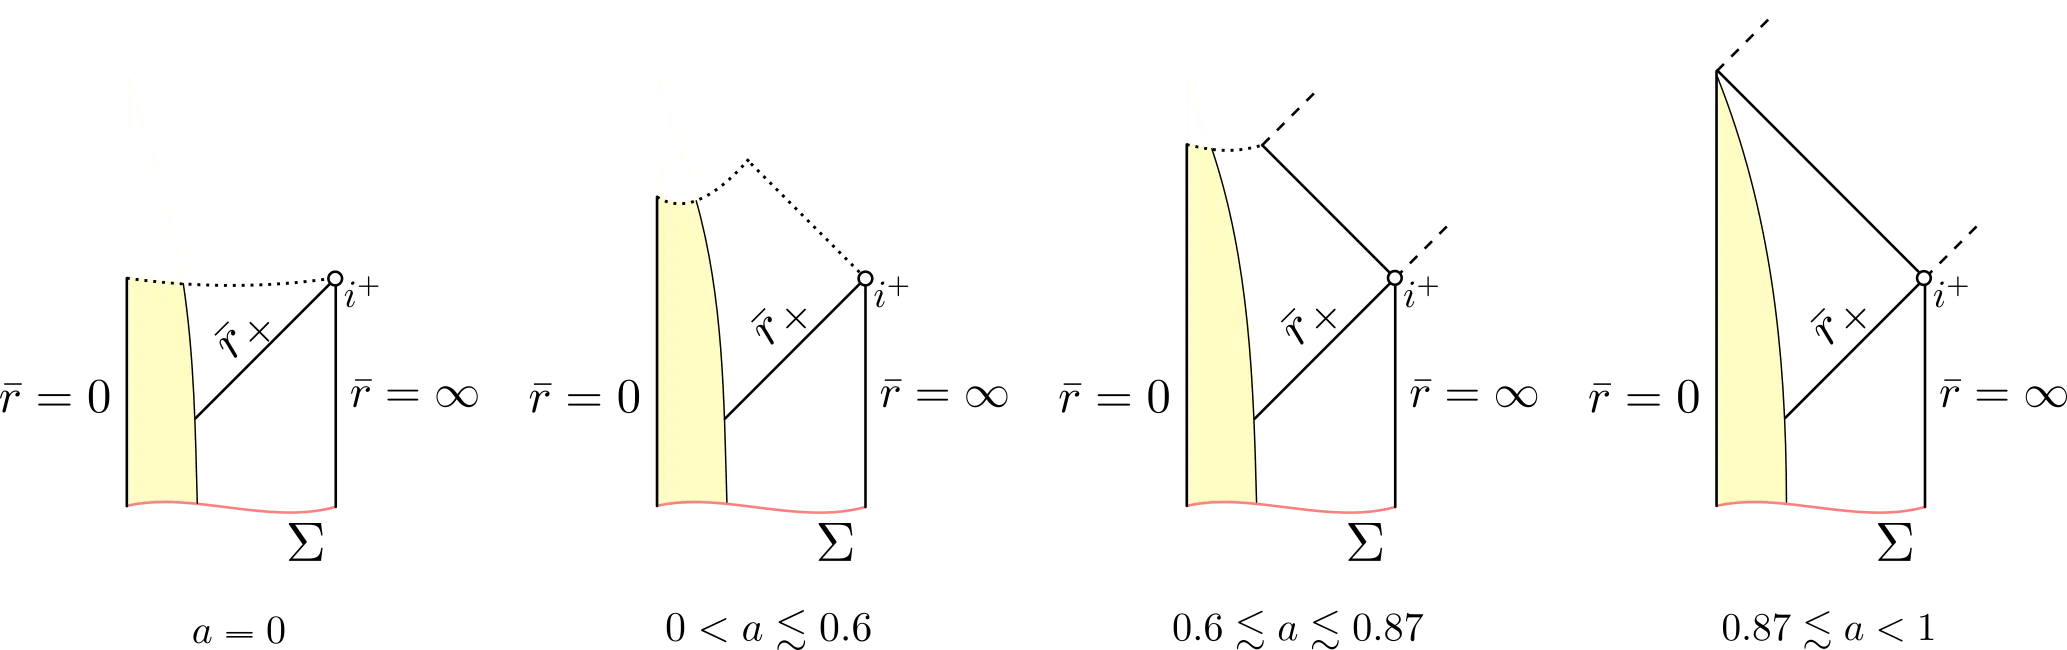
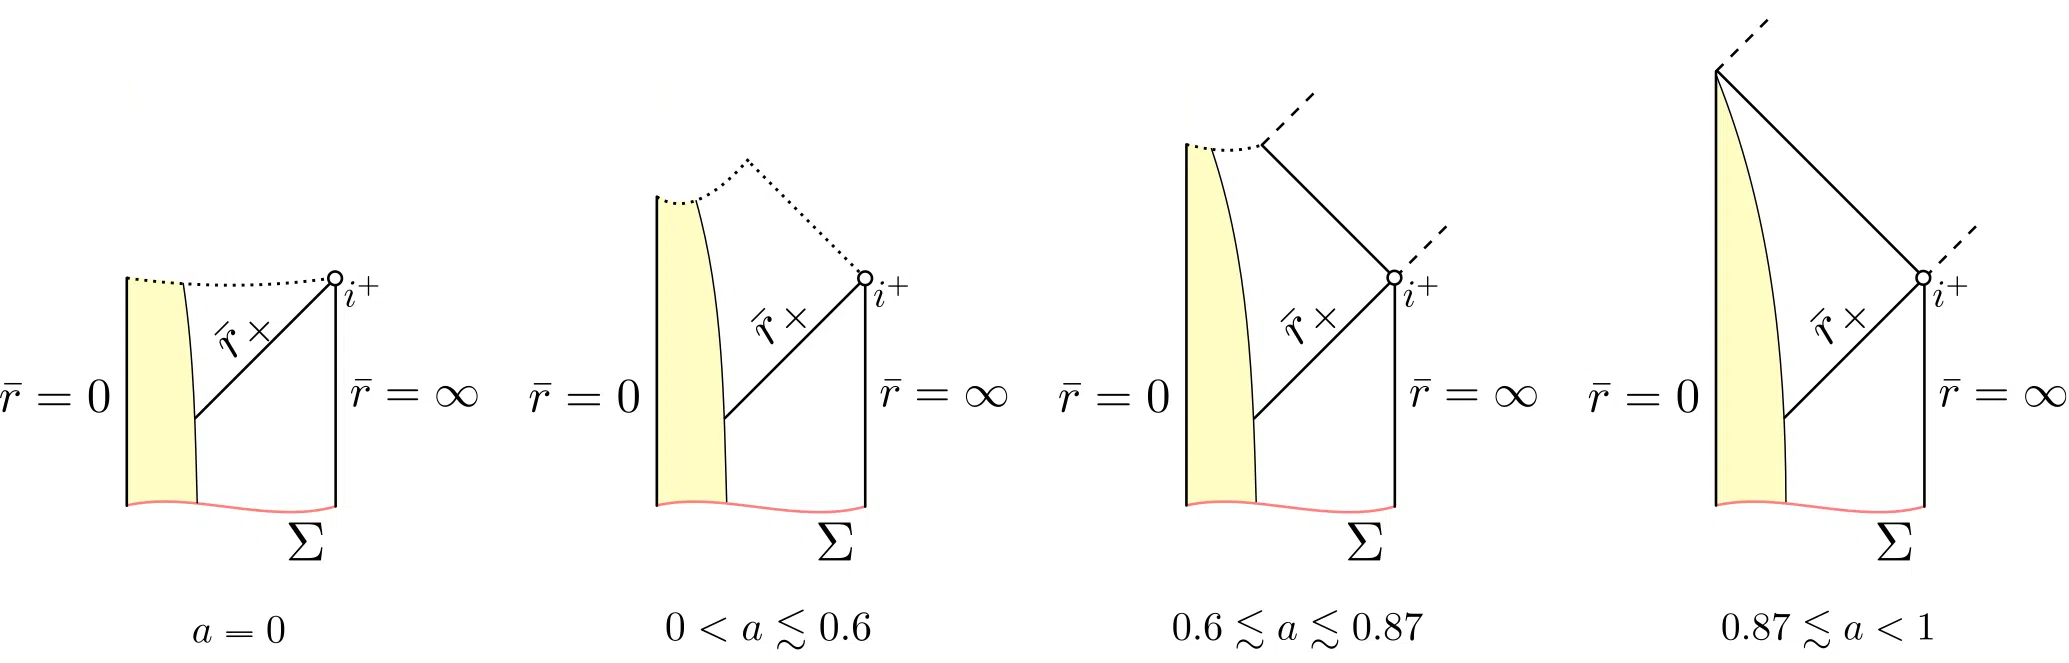
fix bug in bh interior image and broken link in gravity project

diff --git a/_projects/3_project.md b/_projects/3_project.md
@@ -38,7 +38,7 @@ We also found the development of a "gravitational shock-wave", where an infallin
 
 ### Can gravity act like a fluid? 
 
-Paper: <a href="https://arxiv.org/abs/2206.08854"></a>Dynamics of a nonminimally coupled scalar field in asymptotically AdS_4 spacetime<br>
+Paper: <a href="https://arxiv.org/abs/2206.08854">Dynamics of a nonminimally coupled scalar field in asymptotically AdS_4 spacetime</a> <br>
 Authors: _Alex Pandya, Justin L. Ripley_
 
 GR and relativistic fluid mechanics share a similar mathematical structure: namely, they are both systems of coupled hyperbolic partial differential equations.  A direct result of this fact is that both frameworks can lead to the formation of singularities: in GR, they arise in the center of black holes; in fluid mechanics, they arise in droplet formation or in inviscid shocks.
